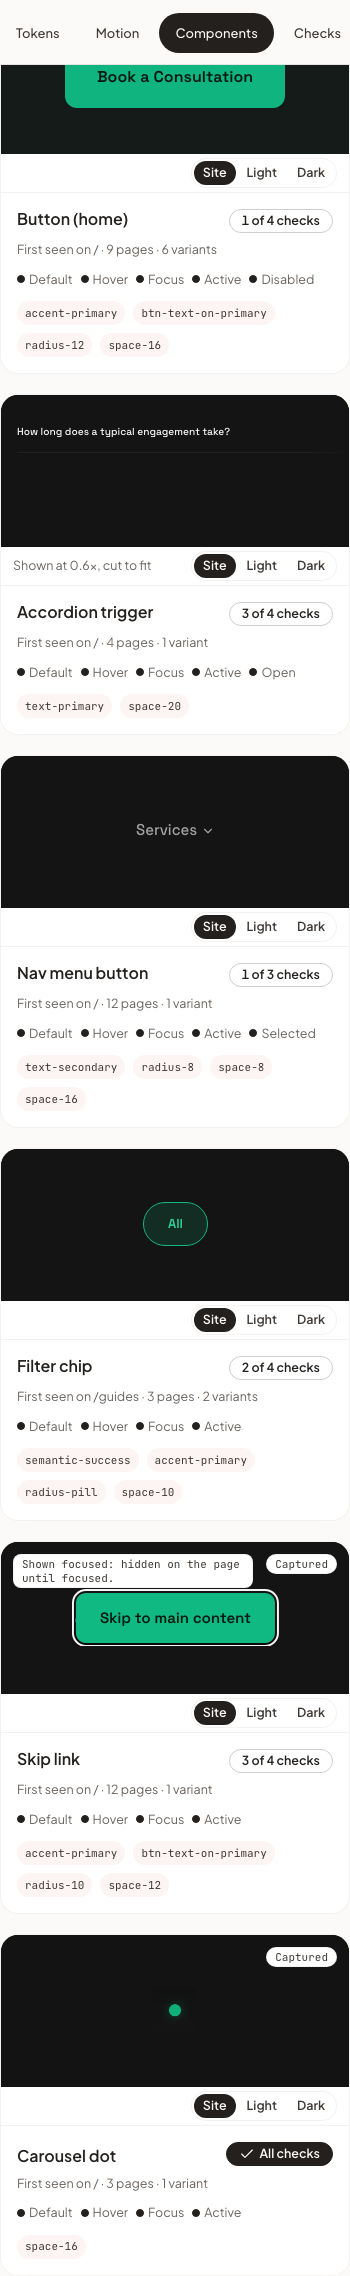
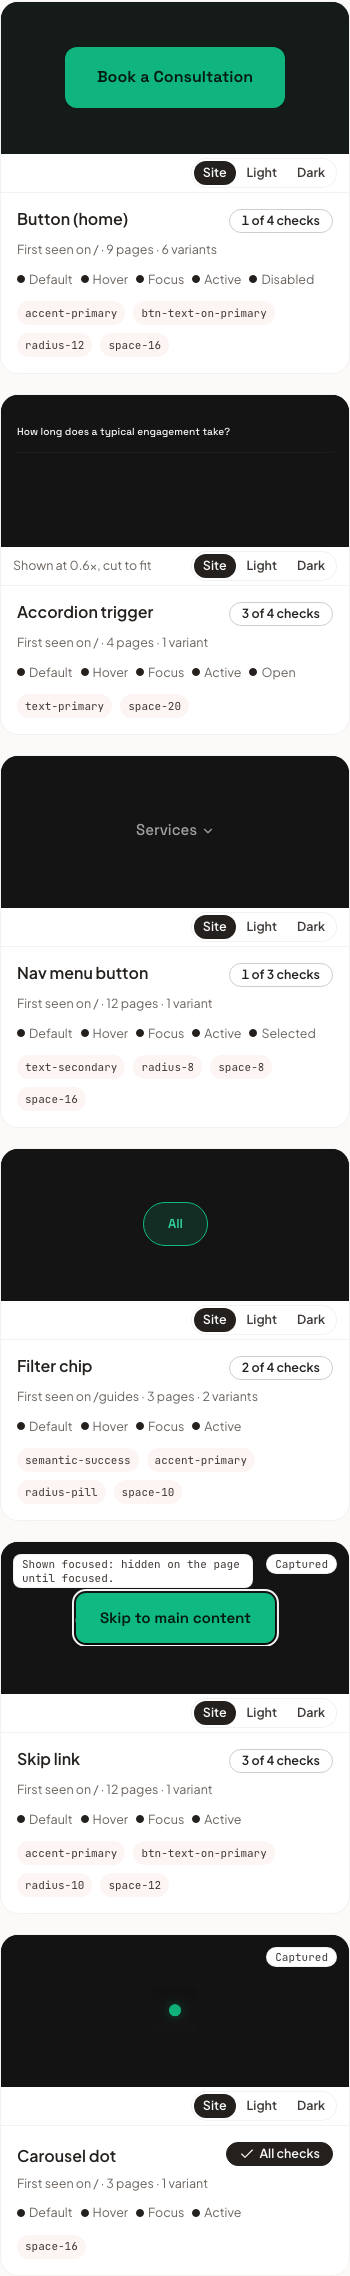
Fix · real-site check after the review: the portfolio and modernsoftworks.com fresh through the queue, the renamed Buttons and the card controls recorded with screenshots

Changed region(s): [[0.0, 0.0, 1.0, 0.0312]]

diff --git a/STATUS.md b/STATUS.md
@@ -172,6 +172,15 @@ During the first full e2e pass Docker Desktop's engine stopped answering (its AP
 
 ## P18 real-site check
 
+### After the v1.3 review fixes (2026-10-31): the owner's sites again, fresh through the queue
+
+The renamed Buttons need a fresh run (names are written at extraction), so both sites ran again on the fixed pipeline: brandonchurchportfolio.com `xujbk11f37` (143 s, $0.0072, 15 components, 11 live of 15, the skip link `hidden-until-focus`) and modernsoftworks.com `po9l29stzj` (250 s, $0.0086, 95 components, 78 live of 95 · 82.1%, core 53 of 66, 42 of 89 passing, the skip link `hidden-until-focus`, 37 cards on the contrast fallback).
+
+- Buttons on modernsoftworks.com: `Button (home)` (was `Button (beautiful and)`: the hero's six-word heading is no context now), `Button (404 page)`, `Button (aside)`, `Button (components)`, `Button (home, second)`, `Button (home, third)`, and `Button (accessibility emergency)`, which a two-word section heading names and the three-word rule keeps. No name holds the probe path, and no pattern reference dangles.
+- The skip links' tap target is measured in their focus state: modernsoftworks.com's passes at 195 × 75; the portfolio's fails at `21 px tall, 23 short`, which is the focused link's real height, not the 1 px box at rest.
+- The cards: the scale and ground captions and the Ground toggle sit in the control strip under each preview, the Accordion trigger cut at 0.6× with its fade, the skip link shown focused with its note at the top-left and the `Captured` tag in its corner. Screenshots: `docs/real-site-check/p18-modernsoftworks-cards.png` (1440), `docs/real-site-check/p18-modernsoftworks-cards-390.png` (390), `docs/real-site-check/p18-portfolio-skip-link.png`.
+- Re-opening the fresh portfolio run found a real fault: a pattern's color written as `rgb(12 10 9 / 85%)` made the pattern row's swatch fail the page (the near-white test read hex only). The swatch now reads any CSS color, with a unit test, before these screenshots were taken.
+
 ### The owner's portfolio and modernsoftworks.com, fresh through the queue (2026-10-29)
 
 `pnpm dev` (web and worker), `POST /api/runs` at the visitor timeout, on the final P18 pipeline.
